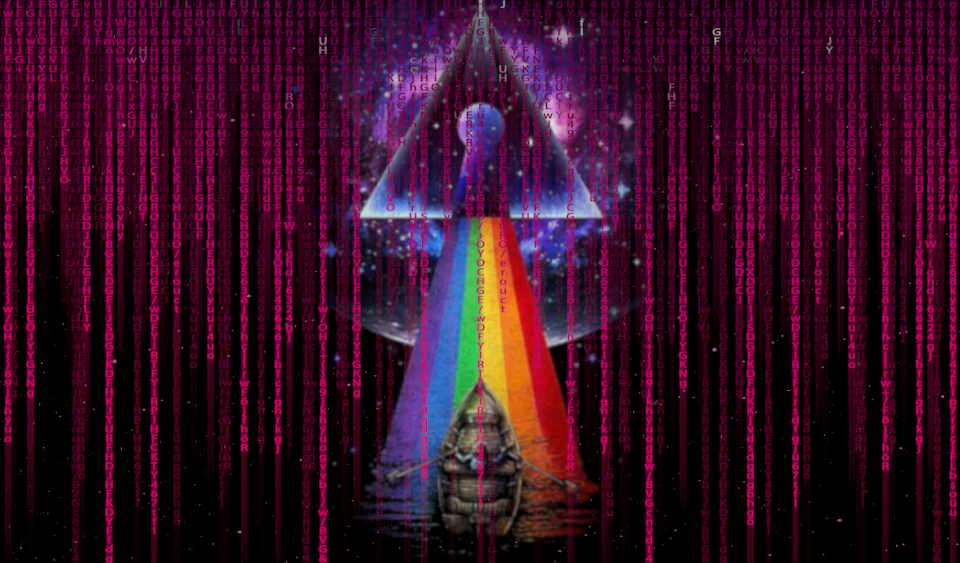
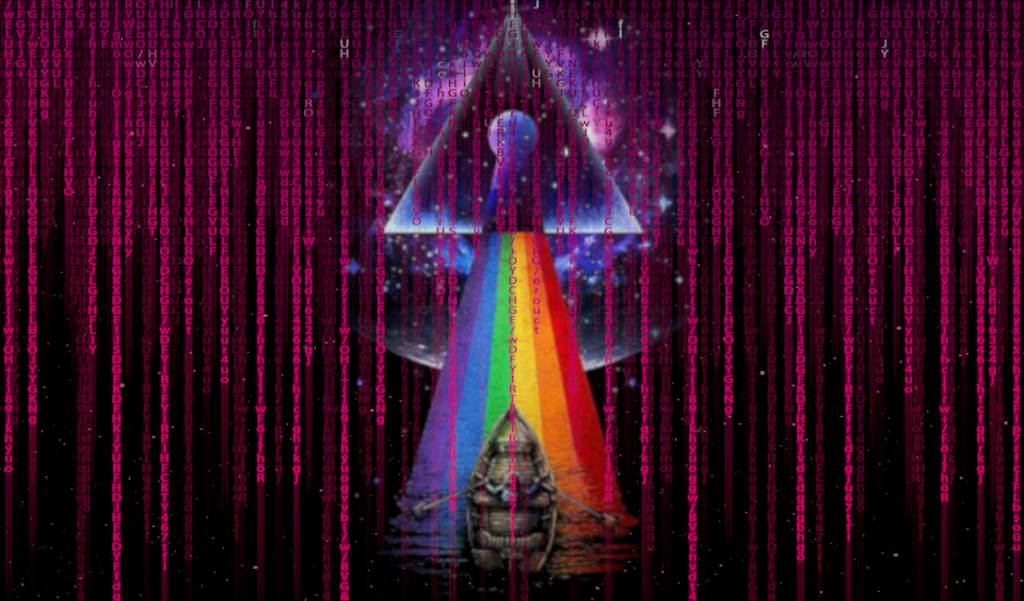
update themes

diff --git a/pages/index.js b/pages/index.js
@@ -4,6 +4,7 @@ import appConfig from "../config.json";
 function GlobalStyle() {
     return (
         <style global jsx>{`
+        @import url('https://fonts.googleapis.com/css2?family=Roboto+Slab:wght@400;500;600;700&display=swap'); 
         * {
           margin: 0;
           padding: 0;
@@ -11,7 +12,7 @@ function GlobalStyle() {
           list-style: none;
         }
         body {
-          font-family: 'Open Sans', sans-serif;
+            font-family: 'Roboto Slab';
         }
         /* App fit Height */ 
         html, body, #__next {
@@ -25,7 +26,7 @@ function GlobalStyle() {
         #__next > * {
           flex: 1;
         }
-        /* ./App fit Height */ 
+        /* ./App fit Height */
       `}</style>
     );
 }
@@ -37,8 +38,25 @@ function Title(props) {
             <Tag>{props.children}</Tag>
             <style jsx>{`
                 ${Tag} {
-                    color: ${appConfig.theme.colors.neutrals['900']};
+                    color: ${appConfig.theme.colors.primary['900']};
                     font-size: 24px;
+                    font-weight: 600;
+                }
+            `}
+            </style>
+        </>
+    )
+}
+
+function Subtitle(props) {
+    const Tag = props.tag || 'h1';
+    return (
+        <>
+            <Tag>{props.children}</Tag>
+            <style jsx>{`
+                ${Tag} {
+                    color: ${appConfig.theme.colors.primary['600']};
+                    font-size: 18px;
                     font-weight: 600;
                 }
             `}
@@ -58,7 +76,8 @@ export default function PaginaInicial() {
                     display: 'flex', alignItems: 'center', justifyContent: 'center',
                     backgroundColor: appConfig.theme.colors.primary[500],
                     backgroundImage: 'url(https://github.com/Carol42/PinkCord/blob/main/assets/bg.png?raw=true)',
-                    backgroundRepeat: 'no-repeat', backgroundSize: 'cover', backgroundBlendMode: 'multiply',
+                    backgroundRepeat: 'repeat-x', backgroundSize: 'contain', backgroundBlendMode: 'multiply',
+                    backgroundPosition: 'center',
                 }}
             >
                 <Box
@@ -84,7 +103,8 @@ export default function PaginaInicial() {
                             width: { xs: '100%', sm: '50%' }, textAlign: 'center', marginBottom: '32px',
                         }}
                     >
-                        <Title tag="h2">Hey you! Together we stand, divided we fall!</Title>
+                        <Title tag="h2">Hey you!</Title>
+                        <Subtitle tag="h3">Together we stand, divided we fall!</Subtitle>
                         <Text variant="body3" styleSheet={{ marginBottom: '32px', color: appConfig.theme.colors.neutrals[300] }}>
                             {appConfig.name}
                         </Text>

diff --git a/README.md b/README.md
@@ -18,8 +18,9 @@
     <img src="https://img.shields.io/static/v1?label=PRs&message=welcome&color=F967BC&style=plastic&logo=" alt="PRs welcome" />
     <img alt="project's license" src="https://img.shields.io/github/license/Carol42/PinkCord?style=plastic&color=F967BC">
     <img alt="GitHub repo size" src="https://img.shields.io/github/repo-size/Carol42/PinkCord?color=181717&logo=github&style=plastic&logoColor=181717">
+    <img alt="GitHub code size in bytes" src="https://img.shields.io/github/languages/code-size/Carol42/PinkCord?logo=github&style=plastic&color=181717&logoColor=181717">
     <img alt="GitHub top language" src="https://img.shields.io/github/languages/top/Carol42/PinkCord?color=%23F7DF1E&logo=javascript&style=plastic">
-    <img alt="GitHub last commit" src="https://img.shields.io/github/last-commit/Carol42/PinkCord?color=F05032&logo=git&logoColor&style=plastic">
+    <img alt="GitHub last commit" src="https://img.shields.io/github/last-commit/Carol42/PinkCord?color=181717&logoColor=181717&logo=github&style=plastic">
     <img alt="date created" src="https://badges.pufler.dev/created/Carol42/PinkCord?style=plastic&color=F967BC">
     <img src="https://img.shields.io/static/v1?label=🚧 status&message=em+desenvolvimento&color=FDD23F&style=plastic&logo=" alt="status: em desenvolvimento"/>
 </div>

diff --git a/README-en.md b/README-en.md
@@ -17,8 +17,9 @@
     <img src="https://img.shields.io/static/v1?label=PRs&message=welcome&color=F967BC&style=plastic&logo=" alt="PRs welcome" />
     <img alt="project's license" src="https://img.shields.io/github/license/Carol42/PinkCord?style=plastic&color=F967BC">
     <img alt="GitHub repo size" src="https://img.shields.io/github/repo-size/Carol42/PinkCord?color=181717&logo=github&style=plastic&logoColor=181717">
+    <img alt="GitHub code size in bytes" src="https://img.shields.io/github/languages/code-size/Carol42/PinkCord?logo=github&style=plastic&color=181717&logoColor=181717">
     <img alt="GitHub top language" src="https://img.shields.io/github/languages/top/Carol42/PinkCord?color=%23F7DF1E&logo=javascript&style=plastic">
-    <img alt="GitHub last commit" src="https://img.shields.io/github/last-commit/Carol42/PinkCord?color=F05032&logo=git&logoColor&style=plastic">
+    <img alt="GitHub last commit" src="https://img.shields.io/github/last-commit/Carol42/PinkCord?color=181717&logoColor=181717&logo=github&style=plastic">
     <img alt="date created" src="https://badges.pufler.dev/created/Carol42/PinkCord?style=plastic&color=F967BC">
     <img src="https://img.shields.io/static/v1?label=🚧 status&message=under+development&color=FDD23F&style=plastic&logo=" alt="status: under development"/>
 </div>
